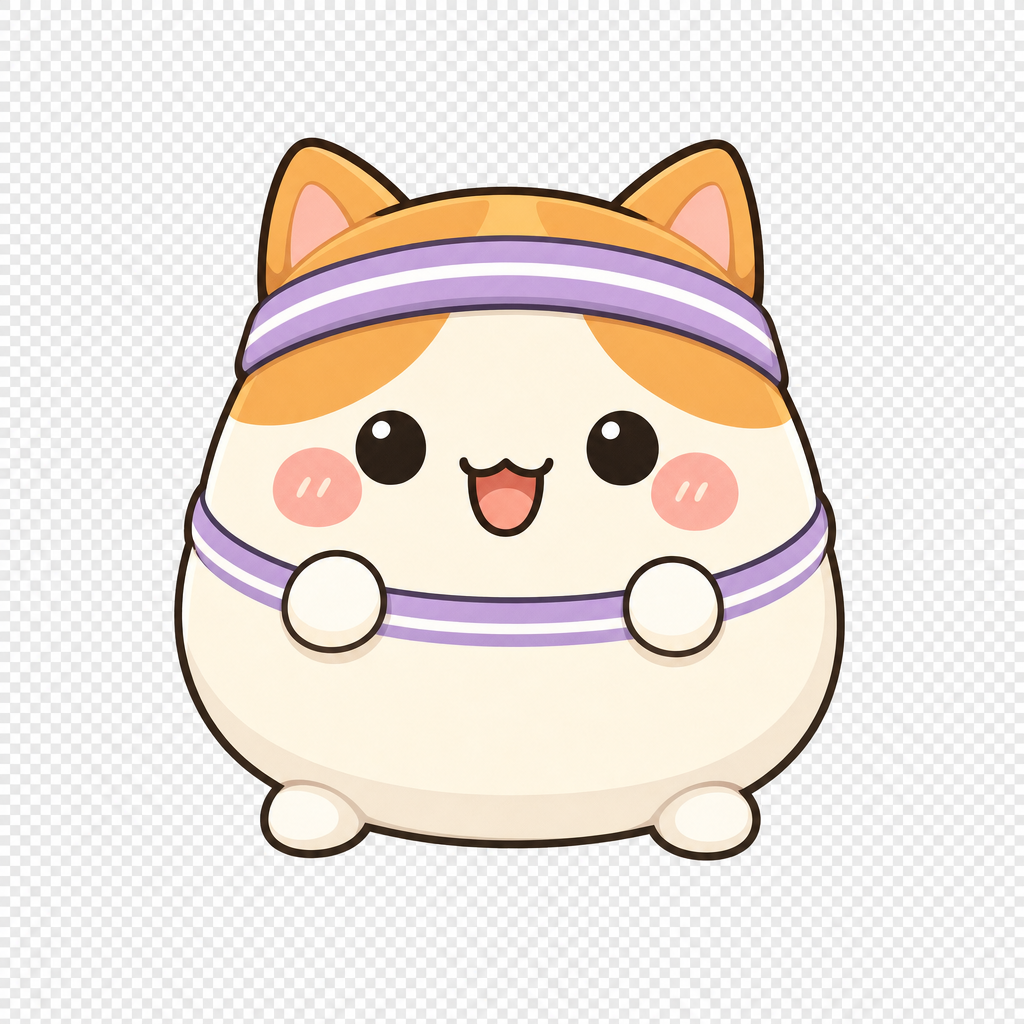
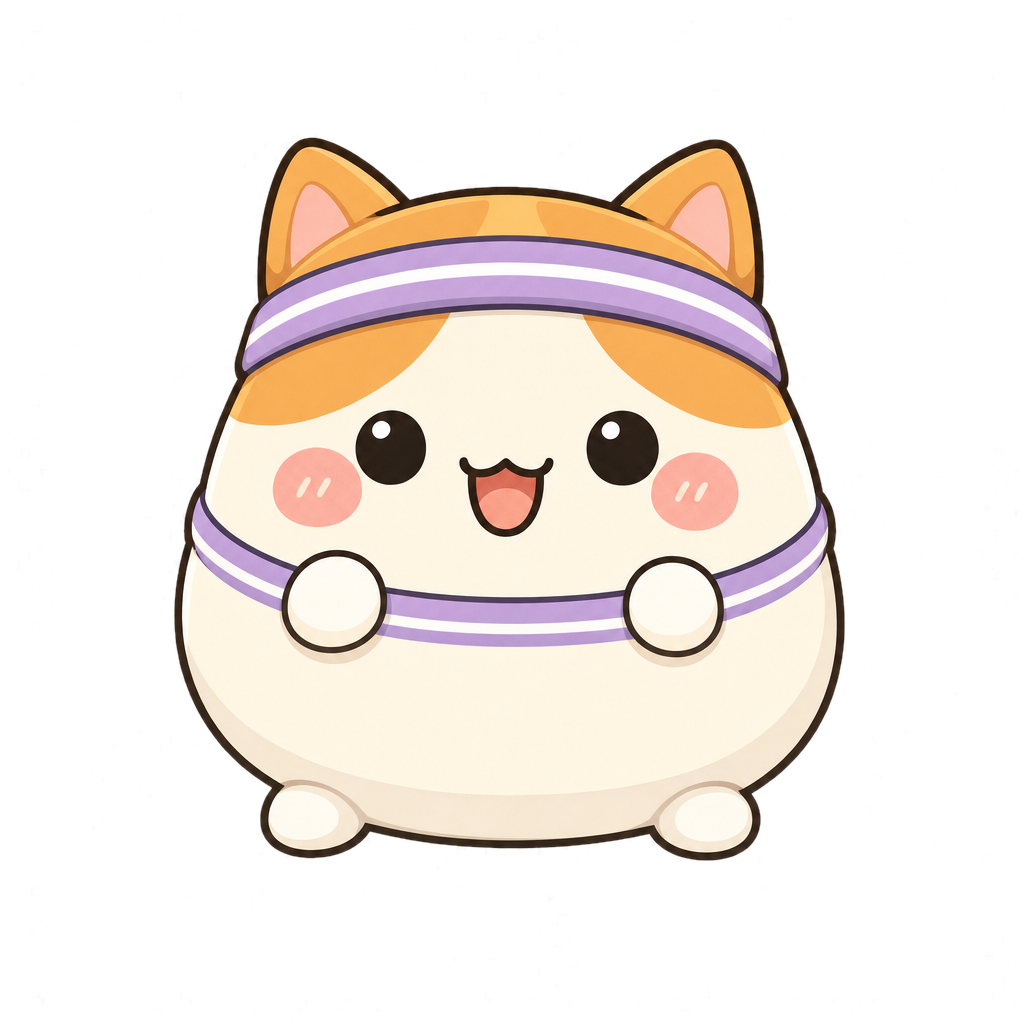
idle/run/swingポーズをコートに組み込み、生成画像の背景透過を修正
- index.html: CHARACTERSにidle/run/swingの3ポーズを持たせ、移動方向(--flip)と
  スイング演出(triggerSwing)に応じて毎フレーム画像を差し替えるupdateVisuals()を追加
- run-left/run-rightは1枚のrun画像をCSSのscaleX(--flip)で左右反転して兼用
- 旧来の汎用SVGラケット(常時表示)は、swing絵に統合済みラケットと二重表示になるため削除
- fal.ai(gpt-image-2)が返した6枚は「透過PNG」指定にもかかわらずRGB(アルファ無し・
  背景は薄いグレー)で返ってきていたため、境界連結成分によるアルファ抜き処理を
  事後適用してRGBAに変換した

diff --git a/index.html b/index.html
@@ -85,30 +85,23 @@
     transition: left .05s linear; }
   .reach.armed{ border-color:var(--accent); box-shadow:0 0 16px rgba(56,189,248,.5); }
 
+  /* キャラの向き(--flip: 1=通常/-1=左右反転)は素材が左向きに描かれているため、
+     右へ移動するときだけ反転する。ヒット/ミス演出のtransformはこの反転と
+     衝突しないよう、必ずscaleX(var(--flip,1))を先頭に合成する。 */
   .charWrap{ position:absolute; z-index:5; transition:left .05s linear; }
-  .charWrap img{ width:88px; height:auto; transition: transform .12s; }
-  .charWrap.hit img{ transform: scale(1.16) rotate(-6deg); }
-  .charWrap.miss img{ transform: scale(.92) rotate(8deg); filter:grayscale(.5); }
-  .charWrap.whiff img{ transform: rotate(-14deg); }
+  .charWrap img{ width:88px; height:auto; transition: transform .12s;
+    transform: scaleX(var(--flip,1)); }
+  .charWrap.hit img{ transform: scaleX(var(--flip,1)) scale(1.16) rotate(-6deg); }
+  .charWrap.miss img{ transform: scaleX(var(--flip,1)) scale(.92) rotate(8deg); filter:grayscale(.5); }
+  .charWrap.whiff img{ transform: scaleX(var(--flip,1)) rotate(-14deg); }
 
   .playerWrap{ bottom:2%; transform:translateX(-50%); }
   .playerWrap img{ width:92px; }
-  .playerWrap.hit img{ transform: scale(1.18) rotate(-6deg); }
+  .playerWrap.hit img{ transform: scaleX(var(--flip,1)) scale(1.18) rotate(-6deg); }
 
   .opponentWrap{ top:2%; transform:translateX(-50%); }
   .opponentWrap img{ width:78px; }
-  .opponentWrap.hit img{ transform: scale(1.18) rotate(6deg); }
-
-  .racket{ position:absolute; width:28px; height:48px; pointer-events:none;
-    transition: transform .16s cubic-bezier(.2,1.4,.4,1); }
-  .racket svg{ width:100%; height:100%; display:block; }
-
-  .playerRacket{ right:-6px; bottom:24px; transform-origin:50% 92%; transform:rotate(28deg); }
-  .playerWrap.hit .playerRacket{ transform:rotate(-95deg); }
-  .playerWrap.whiff .playerRacket{ transform:rotate(-70deg); }
-
-  .opponentRacket{ left:-6px; top:24px; transform-origin:50% 8%; transform:rotate(-28deg) scale(-1,-1); }
-  .opponentWrap.hit .opponentRacket{ transform:rotate(95deg) scale(-1,-1); }
+  .opponentWrap.hit img{ transform: scaleX(var(--flip,1)) scale(1.18) rotate(6deg); }
 
   .tapHint{ font-size:12px; color:#9aa4c4; }
 
@@ -151,26 +144,12 @@
       <div class="netLine"></div>
       <div class="opponentWrap charWrap" id="opponentWrap">
         <img id="opponentImg" alt="">
-        <div class="racket opponentRacket">
-          <svg viewBox="0 0 30 52" aria-hidden="true">
-            <ellipse cx="15" cy="16" rx="12" ry="15" fill="none" stroke="#e5e7eb" stroke-width="2.5"/>
-            <path d="M6 16H24M15 3V29M9 8L21 24M21 8L9 24" stroke="#e5e7eb" stroke-width=".8" opacity=".6"/>
-            <rect x="12" y="30" width="6" height="20" rx="3" fill="#b5773a"/>
-          </svg>
-        </div>
       </div>
       <div class="reach" id="reach"></div>
       <div class="ballShadow" id="ballShadow"></div>
       <div class="ball" id="ball"></div>
       <div class="playerWrap charWrap" id="playerWrap">
         <img id="playerImg" alt="">
-        <div class="racket playerRacket">
-          <svg viewBox="0 0 30 52" aria-hidden="true">
-            <ellipse cx="15" cy="16" rx="12" ry="15" fill="none" stroke="#e5e7eb" stroke-width="2.5"/>
-            <path d="M6 16H24M15 3V29M9 8L21 24M21 8L9 24" stroke="#e5e7eb" stroke-width=".8" opacity=".6"/>
-            <rect x="12" y="30" width="6" height="20" rx="3" fill="#b5773a"/>
-          </svg>
-        </div>
       </div>
       <div class="flash" id="flash"></div>
     </div>
@@ -212,13 +191,15 @@
   /* =========================================================
      1. キャラクター
      ========================================================= */
-  // 画像は LINEスタンプ(stamp_01_funifuni2026.png / stamp_02_kotokoto2026.png)から
-  // 1ポーズだけ切り出したもの。スポーティなキャラ絵に差し替える予定だが、
-  // 素材が届くまではこの仮素材で操作感を作る(ポーズはCSSクラスで切り替えられる
-  // 構造にしてあるので、差し替え自体は画像パスの変更だけで済む)。
+  // 各キャラクター4ポーズ(idle/run/swing)のスポーティ画像。fal.aiで生成した
+  // ものを元のLINEスタンプ(stamp_01_funifuni2026.png / stamp_02_kotokoto2026.png)
+  // のシルエット・表情を踏襲しつつ差し替えた。run-left/run-rightは1枚の
+  // run画像をCSSで左右反転(--flip)して兼用する(素材は左向きに描かれている)。
   const CHARACTERS = [
-    { id:"funifuni", name:"ふにふに", file:"art/funifuni.png" },
-    { id:"kotokoto", name:"ことこと", file:"art/kotokoto.png" }
+    { id:"funifuni", name:"ふにふに",
+      idle:"art/funifuni-idle.png", run:"art/funifuni-run.png", swing:"art/funifuni-swing.png" },
+    { id:"kotokoto", name:"ことこと",
+      idle:"art/kotokoto-idle.png", run:"art/kotokoto-run.png", swing:"art/kotokoto-swing.png" }
   ];
   const CHAR_KEY = "tennis-game:character";
   let selectedChar = localStorage.getItem(CHAR_KEY) || CHARACTERS[0].id;
@@ -229,7 +210,7 @@
     CHARACTERS.forEach(function(c){
       const btn = document.createElement("button");
       btn.className = "charBtn" + (c.id === selectedChar ? " selected" : "");
-      btn.innerHTML = '<img src="' + c.file + '" alt="' + c.name + '">' +
+      btn.innerHTML = '<img src="' + c.idle + '" alt="' + c.name + '">' +
         '<span class="cname">' + c.name + '</span>';
       btn.addEventListener("click", function(){
         selectedChar = c.id;
@@ -240,13 +221,15 @@
     });
   }
 
-  function charFile(id){
-    const c = CHARACTERS.find(function(x){ return x.id === id; });
-    return c ? c.file : CHARACTERS[0].file;
+  function findChar(id){
+    return CHARACTERS.find(function(x){ return x.id === id; }) || CHARACTERS[0];
   }
-  function opponentFile(id){
-    const opp = CHARACTERS.find(function(x){ return x.id !== id; });
-    return opp ? opp.file : CHARACTERS[1].file;
+  function opponentOf(id){
+    return CHARACTERS.find(function(x){ return x.id !== id; }) || CHARACTERS[1];
+  }
+  /** キャラID + ポーズ名("idle"|"run"|"swing") から画像パスを引く */
+  function poseFile(charId, pose){
+    return findChar(charId)[pose] || findChar(charId).idle;
   }
 
   /* =========================================================
@@ -311,6 +294,7 @@
     const ARC_HEIGHT = 42;          // ボールの山なり演出(px)
     const RETURN_PAUSE = 160;
     const SMART_RETURN_CHANCE = 0.35; // 相手がプレイヤーから遠い側を狙う確率(かしこい返球)
+    const BOUNCE_MS = 180;          // hit/miss/whiffの見た目演出の長さ(swingポーズの表示時間も揃える)
 
     // "serve" | "ballToPlayer" | "ballToOpponent" | "pointOver" | "gameOver"
     let phase = "serve";
@@ -326,13 +310,47 @@
     let autoMissTimer = null;
     let opponentReactAt = 0;
 
+    // ---- 見た目(idle/run/swingポーズ + 左右反転)。ゲームロジックとは独立に
+    // 「今動いているか(pose用)」と「最後にどちらを向いていたか(反転用。動きが
+    // 止まってもidleで向きを保つ)」を分けて持つ。素材は左向きに描かれているため
+    // 向きが右のときだけ反転する ----
+    let playerMoving = false, playerFacing = -1;
+    let opponentMoving = false, opponentFacing = -1;
+    let playerSwingUntil = 0, opponentSwingUntil = 0;
+    const playerVisual = { pose:null, flip:null };
+    const opponentVisual = { pose:null, flip:null };
+
+    function triggerSwing(side){
+      const until = performance.now() + BOUNCE_MS;
+      if (side === "player") playerSwingUntil = until; else opponentSwingUntil = until;
+    }
+
+    function applyVisual(state, imgEl, charId, pose, flip){
+      if (state.pose !== pose) { imgEl.src = poseFile(charId, pose); state.pose = pose; }
+      if (state.flip !== flip) { imgEl.style.setProperty("--flip", String(flip)); state.flip = flip; }
+    }
+
+    function updateVisuals(now){
+      const e = el();
+      const pSwing = now < playerSwingUntil;
+      applyVisual(playerVisual, e.playerImg, selectedChar,
+        pSwing ? "swing" : (playerMoving ? "run" : "idle"),
+        playerFacing < 0 ? 1 : -1);
+
+      const oSwing = now < opponentSwingUntil;
+      applyVisual(opponentVisual, e.opponentImg, opponentOf(selectedChar).id,
+        oSwing ? "swing" : (opponentMoving ? "run" : "idle"),
+        opponentFacing < 0 ? 1 : -1);
+    }
+
     const score = { player:0, opponent:0 };
     let lastLabels = scoreLabels(0, 0);
     let lastSmartReturn = false;
 
     function el(){
       return { ball: $("ball"), shadow: $("ballShadow"), reach: $("reach"),
-        player: $("playerWrap"), opponent: $("opponentWrap"), flash: $("flash") };
+        player: $("playerWrap"), opponent: $("opponentWrap"), flash: $("flash"),
+        playerImg: $("playerImg"), opponentImg: $("opponentImg") };
     }
 
     function flash(kind){
@@ -346,7 +364,7 @@
       wrap.classList.remove("hit","miss","whiff");
       void wrap.offsetWidth;
       wrap.classList.add(kind);
-      setTimeout(function(){ wrap.classList.remove(kind); }, 180);
+      setTimeout(function(){ wrap.classList.remove(kind); }, BOUNCE_MS);
     }
 
     /** 自分側・相手側で共通の「届くか」判定 */
@@ -399,16 +417,20 @@
       if (keys.left) dir -= 1;
       if (keys.right) dir += 1;
       if (dir !== 0) player.x = clamp(player.x + dir * PLAYER_SPEED * dtMs, player.min, player.max);
+      playerMoving = dir !== 0;
+      if (dir !== 0) playerFacing = dir;
     }
 
     /* ---- 相手AI(ballToOpponent の間だけ、予測着地Xへ向けて動く) ---- */
     function updateOpponent(now, dtMs){
-      if (phase !== "ballToOpponent") return;
-      if (now < opponentReactAt) return;
+      if (phase !== "ballToOpponent" || now < opponentReactAt) { opponentMoving = false; return; }
       const dx = ball.targetX - opponent.x;
       const step = AI_SPEED * dtMs;
-      if (Math.abs(dx) <= step) opponent.x = ball.targetX;
-      else opponent.x += Math.sign(dx) * step;
+      if (Math.abs(dx) <= step) { opponent.x = ball.targetX; opponentMoving = false; return; }
+      const dir = Math.sign(dx);
+      opponent.x += dir * step;
+      opponentMoving = true;
+      opponentFacing = dir;
     }
 
     function launchToPlayer(){
@@ -442,6 +464,7 @@
       const reached = canReach(opponent.x, ball.targetX);
       if (!reached) { pointFor("player"); return; }
       bounce(el().opponent, "hit");
+      triggerSwing("opponent");
       lastSmartReturn = rand() < SMART_RETURN_CHANCE;
       const targetX = lastSmartReturn ? aimAwayFromPlayer(player.x) : aimFromContact(opponent.x, ball.targetX);
       setTimeout(function(){
@@ -470,8 +493,8 @@
       const inWindow = elapsed >= early && elapsed <= late;
       const inReach = canReach(player.x, ball.x);
 
-      if (!inReach) { bounce(el().player, "whiff"); miss(); return; }
-      if (!inWindow) { bounce(el().player, "whiff"); miss(); return; }
+      if (!inReach) { bounce(el().player, "whiff"); triggerSwing("player"); miss(); return; }
+      if (!inWindow) { bounce(el().player, "whiff"); triggerSwing("player"); miss(); return; }
       hit();
     }
 
@@ -479,6 +502,7 @@
       clearTimeout(autoMissTimer);
       flash("good");
       bounce(el().player, "hit");
+      triggerSwing("player");
       const targetX = aimFromContact(player.x, ball.x);
       duration = Math.max(MIN_DURATION, duration - DURATION_STEP);
       launchToOpponent(targetX);
@@ -528,8 +552,11 @@
       $("playerScore").textContent = lastLabels.forLabel;
       $("opponentScore").textContent = lastLabels.againstLabel;
       $("deuceNote").hidden = true;
-      $("playerImg").src = charFile(selectedChar);
-      $("opponentImg").src = opponentFile(selectedChar);
+      playerMoving = false; playerFacing = -1; playerSwingUntil = 0;
+      opponentMoving = false; opponentFacing = -1; opponentSwingUntil = 0;
+      playerVisual.pose = null; playerVisual.flip = null;
+      opponentVisual.pose = null; opponentVisual.flip = null;
+      updateVisuals(performance.now());
       el().player.classList.remove("hit","miss","whiff");
       el().opponent.classList.remove("hit","miss","whiff");
       $("reach").classList.remove("armed");
@@ -546,6 +573,7 @@
       updatePlayer(dt);
       updateOpponent(now, dt);
       renderCourt(now);
+      updateVisuals(now);
       rafId = requestAnimationFrame(loop);
     }
     function startLoop(){ lastTick = 0; rafId = requestAnimationFrame(loop); }
